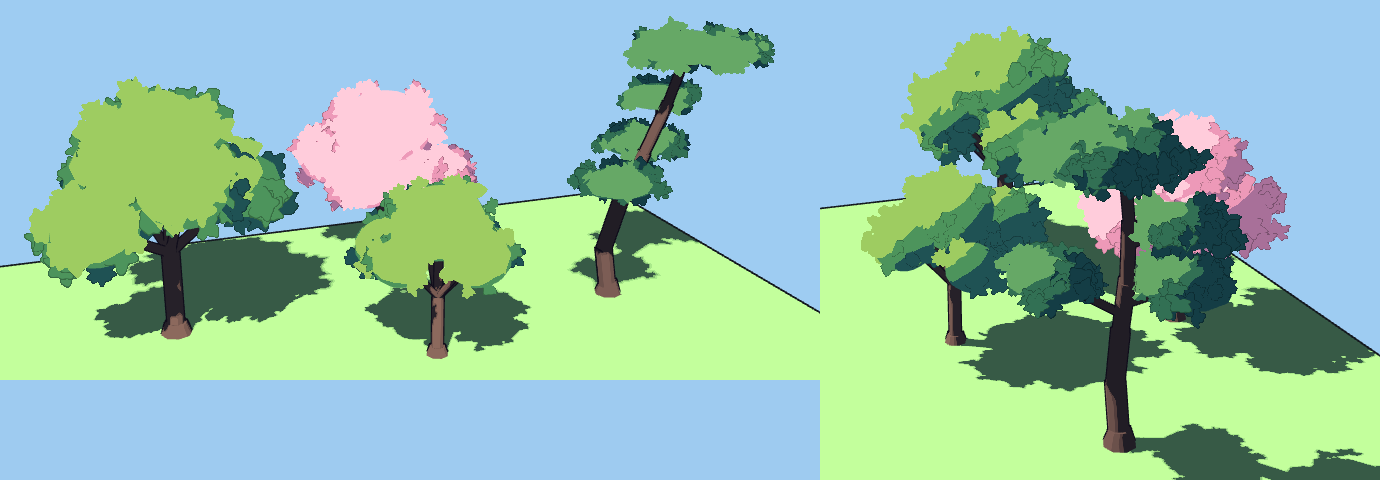
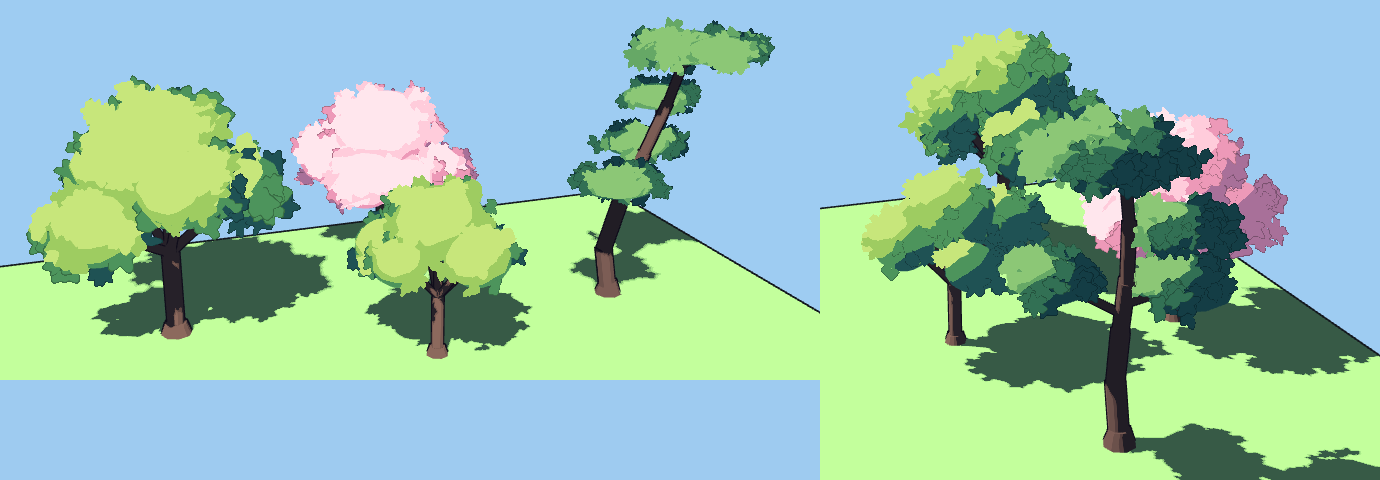
Foliage: a highlight tone on the lit side of each clump
The lit side was one flat tone and the crown looked flat. Each clump now
gets its own brighter cap facing the sun, from its clump normal with a
noisy edge, so the lit mass reads as several rounded clumps.

Claude-Session: https://claude.ai/code/session_01JuNQs8VxyuqxoqKQNTs1C5

diff --git a/.claude/skills/godot-diorama-scene/references/foliage.md b/.claude/skills/godot-diorama-scene/references/foliage.md
@@ -28,9 +28,11 @@ balls (the first beach pines) reads as a toy, not as anime.
    every card ("the same star repeated, a whole closed shape"): every card must differ, and many should
    be partial, so only a few bumps show at the crown edge. Leaf size is about 0.3 x tree
    size; density is about 34 per square metre for broadleaf and 60 for pine.
-4. **Three flat tones with a hue shift.** Light is yellow-green, mid is green, shadow is blue-green, chosen by
-   `dot(spherized normal, sun)`. Wobble the band edges with noise (brush strokes) and darken the underside
-   of the crown. Keep the lit side one flat tone: the user preferred it to cards with random values,
+4. **Four flat tones with a hue shift.** Light is yellow-green, mid is green, shadow is blue-green, chosen by
+   `dot(spherized normal, sun)`. On the lit side, each clump also gets its own brighter highlight cap from
+   its own clump normal (`high_col`, with a noisy edge). With only one lit tone the user found the crown
+   flat; the caps make the lit mass read as several rounded clumps. Wobble the band edges with noise (brush strokes) and darken the underside
+   of the crown. Keep the lit tones flat: the user preferred them to cards with random values,
    whose shapes showed inside the mass. In the mid and shadow tones only, each cut edge gets a darker band
    of the same hue (no black ink on foliage). The trunk and branches keep the toon kit's ink line.
 5. **Glow.** Brighten the rim on the side facing away from the sun, as if light comes through the leaves.
@@ -40,7 +42,7 @@ balls (the first beach pines) reads as a toy, not as anime.
 ## Notes
 
 - The shader is unshaded and takes `sun_dir` as a uniform (`Foliage.sun_from(sun.rotation_degrees)`).
-  For a night scene, pass darker, bluer tones and a lower `brightness`.
+  For a night scene, pass darker, bluer tones (all four colours) and a lower `brightness`.
 - Cards move in the shader, so the mesh needs a grown `custom_aabb`, or it is culled at the screen edge.
 - Recolour for the season with the four colour uniforms (cherry blossom: pinks with a mauve shadow; autumn:
   orange, red-brown, purple shadow).
